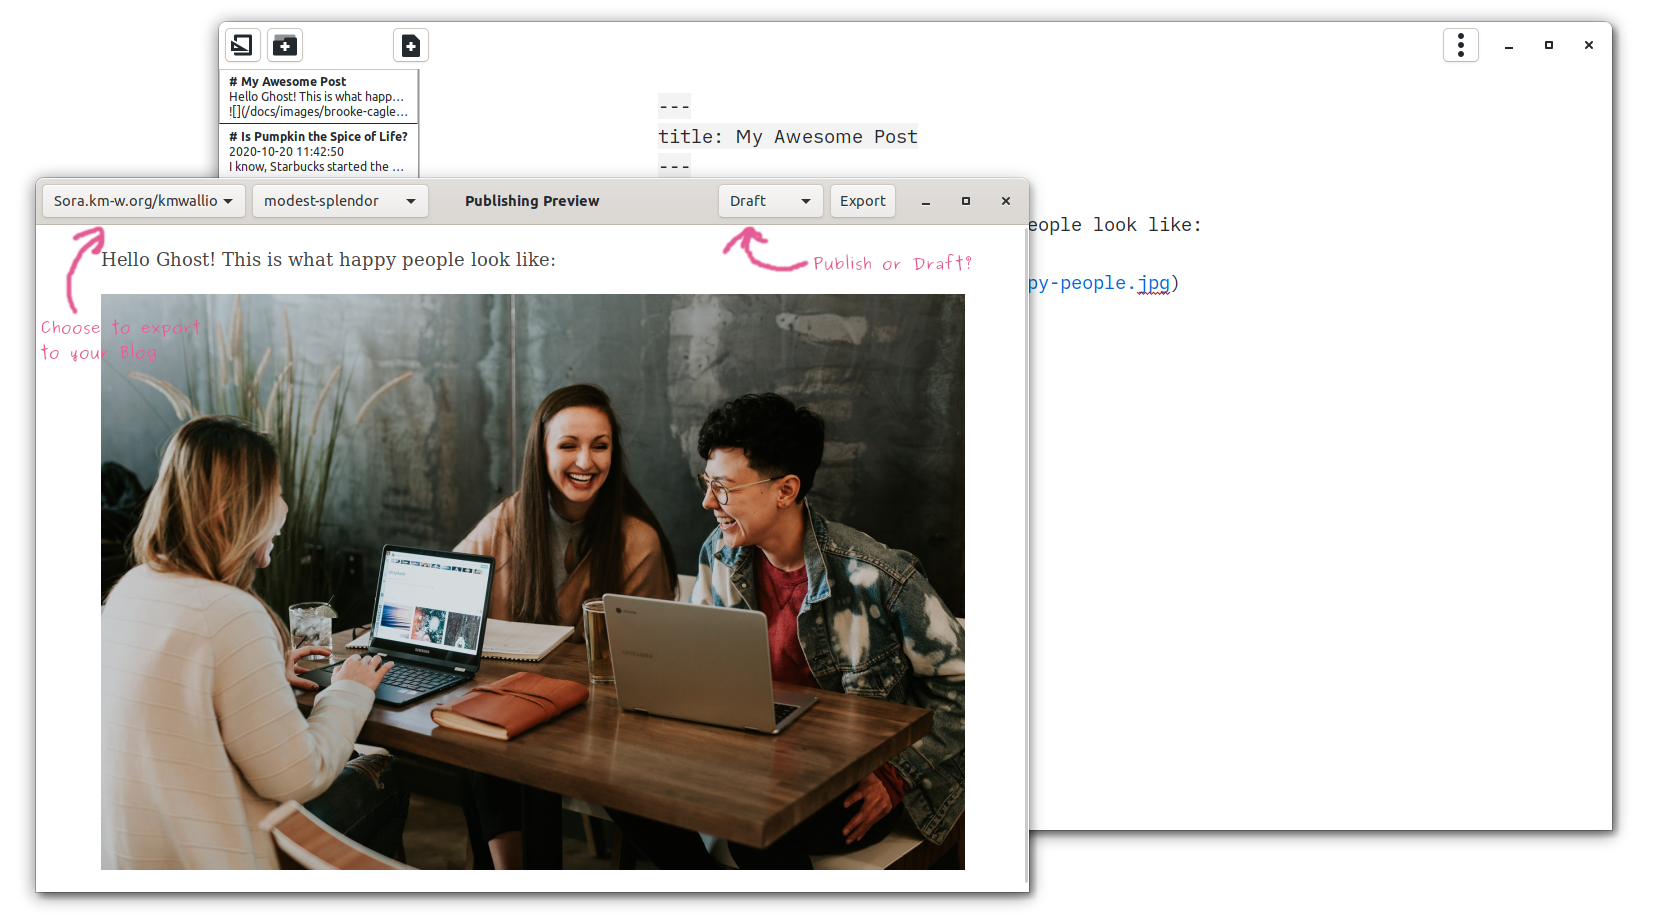
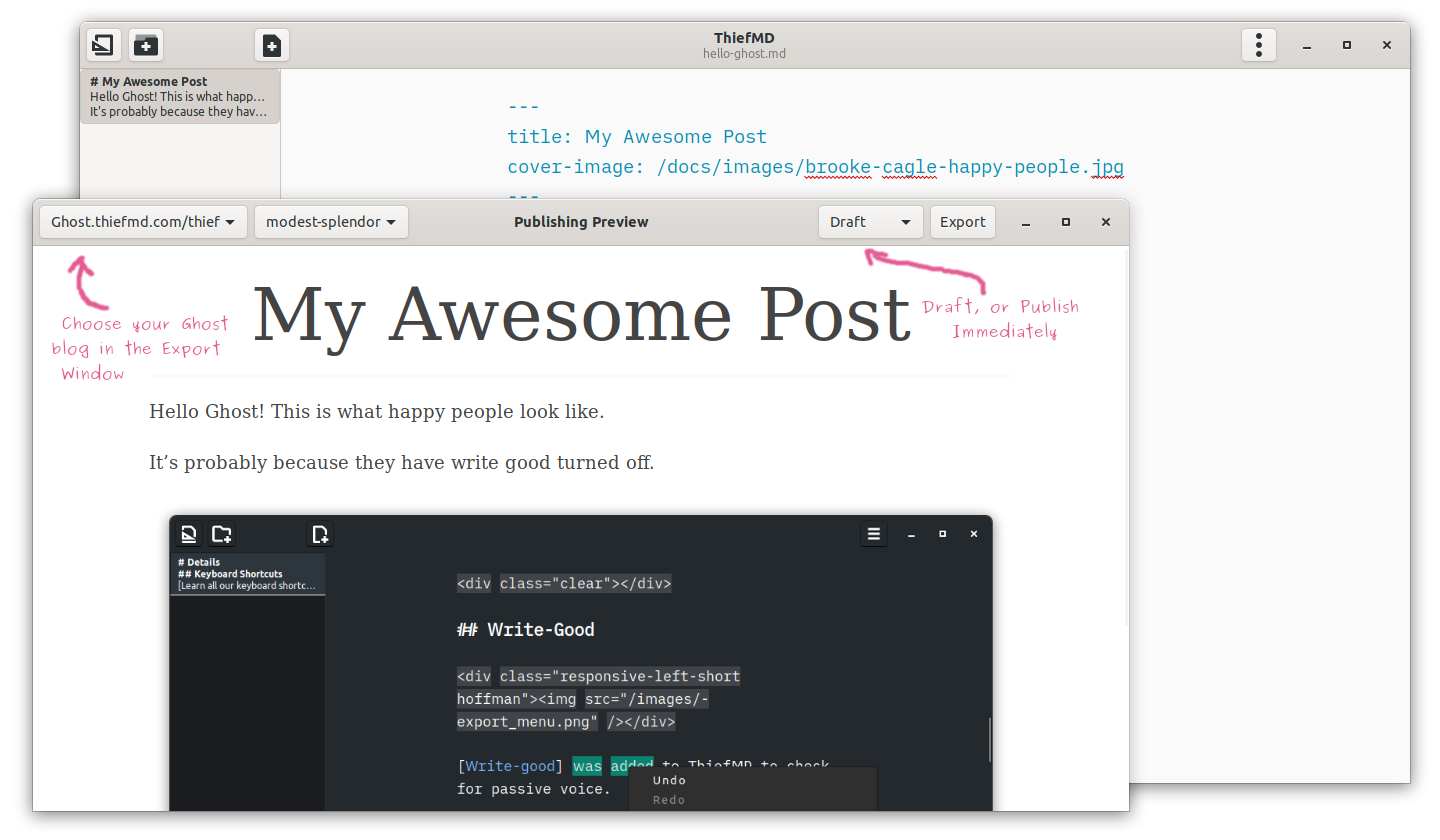
Update documentation for new blogging features

diff --git a/docs/_tips/blogging-with-writefreely.md b/docs/_tips/blogging-with-writefreely.md
@@ -10,7 +10,7 @@ Please note, automated image upload is not supported. Check out [Snap.as](https:
 
 ## Adding a Connection ❤
 
-<div class="responsive-right-short marcel"><img src="/images/blogging-write.as/new-connection.png" alt="ThiefMD adding Write.as connection" /></div>
+<div class="responsive-right-short marcel"><img src="/images/blogging-writefreely/new-connection.png" alt="ThiefMD adding WriteFreely connection" /></div>
 
 In the Preferences `Ctrl+,` click on **Connections**.
 
@@ -20,7 +20,7 @@ If everything goes well, the blog will be added to the **Current Connections** l
 
 ## Writing for WriteFreely
 
-ThiefMD supports adding a title, uploading images, and publishing the post in a "Draft" or "Published" state.
+ThiefMD supports adding a title.
 
 ### Adding a Title
 
@@ -54,7 +54,7 @@ If you're a Write.as Pro user, you can upload your images to [Snap.as](https://s
 
 With this, ThiefMD will be ready to upload your images and you post through the `Export` window. Right-click on the post you want to publish, and click **Export**.
 
-![](/images/blogging-write.as/publisher-window.png)
+![](/images/blogging-writefreely/publisher-window.png)
 
 In the window, you can select `Write.as/user` as the Export Option. A Drop Down with your available collections will appear. Use this to choose where your post will appear.
 

diff --git a/docs/_tips/blogging-with-ghost.md b/docs/_tips/blogging-with-ghost.md
@@ -27,8 +27,11 @@ At the start of your file, you need to add a little YAML front-matter to specify
 ```yaml
 ---
 title: My Awesome Post
+cover-image: /images/brooke-cagle-happy-people.jpg
 ---
 ```
+
+You can add a `cover-image` to be featured in your post. It's optional, but adds a bit a flare.
 
 ### Adding Content and Images
 
@@ -37,11 +40,14 @@ For content and images, just use Markdown after the YAML frontmatter.
 ```yaml
 ---
 title: My Awesome Post
+cover-image: /images/brooke-cagle-happy-people.jpg
 ---
 
-Hello Ghost! This is what happy people look like:
+Hello Ghost! This is what happy people look like.
 
-![](/images/brooke-cagle-happy-people.jpg)
+It's probably because they don't have write good turned on.
+
+![](/images/write-good.png)
 ```
 
 With this, ThiefMD will be ready to upload your images and you post through the `Export` window. Right-click on the post you want to publish, and click **Export**.
@@ -55,3 +61,5 @@ As long as everything looks good, click on **Export**. ThiefMD will upload any i
 Once everything is done, links will appear to access the post, or Ghost's online editor.
 
 Happy Writing!
+
+![](/images/blogging-ghost/published.png)

diff --git a/docs/tips/index.md b/docs/tips/index.md
@@ -19,7 +19,7 @@ title: Tips and Tricks
 
 ## Working with Blogging Services
 
-* [Blogging with Write Freely](/tips/blogging-with-write.as)
+* [Blogging with WriteFreely](/tips/blogging-with-writefreely)
 * [Blogging with Ghost](/tips/blogging-with-ghost)
 
 ## Static Site Generators
